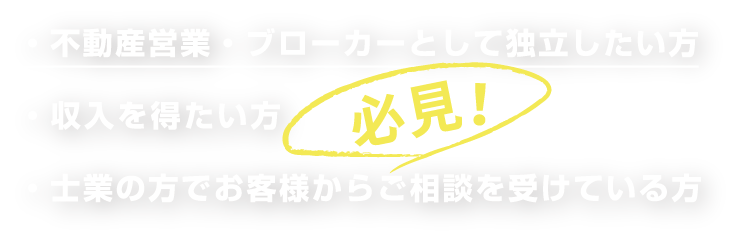
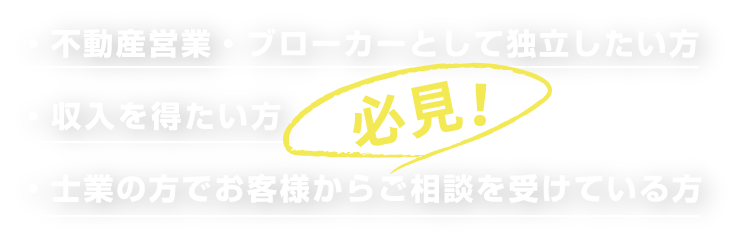
needs__Qの修正

diff --git a/style/style.css b/style/style.css
@@ -350,7 +350,7 @@ textarea {
 
 .needs__Q--description {
   background: #fff;
-  padding: 10px 25px;
+  padding: 25px;
   position: relative;
   margin-bottom: 20px;
   filter: drop-shadow(0px 3px 5px #c0c0c0);
@@ -366,18 +366,18 @@ textarea {
   border-top: 30px solid #fff;
 }
 
-.needs__Q--description p {
-  font-size: 16px;
-  text-indent: -1rem;
+.needs__Q--description .needs__Q--description__p {
+  display: flex;
 }
 
-.needs__Q--description p::before {
+.needs__Q--description .needs__Q--description__p p {
+  margin: -5px 0 5px 5px;
+}
+
+.needs__Q--description .needs__Q--description__p img {
   display: inline-block;
-  content: "";
-  background: url("../../image/check-black.png");
-  background-size: cover;
-  width: 20px;
-  height: 20px;
+  width: 25px;
+  height: 100%;
 }
 
 .needs__A {
@@ -860,16 +860,17 @@ textarea {
   .needs__Q--heading h2 span.dot {
     font-size: 36px;
   }
-  .needs__Q--description {
-    padding: 10px 25px;
+  .needs__Q--description .needs__Q--description__p {
+    display: flex;
   }
-  .needs__Q--description p {
-    font-size: 18px;
-    text-indent: -1rem;
+  .needs__Q--description .needs__Q--description__p p {
+    margin: -8px 0 15px 5px;
+    font-size: 24px;
   }
-  .needs__Q--description p::before {
-    width: 25px;
-    height: 25px;
+  .needs__Q--description .needs__Q--description__p img {
+    display: inline-block;
+    width: 30px;
+    height: 100%;
   }
   .needs__A--description tr td span {
     font-size: 30px;
@@ -1147,15 +1148,19 @@ textarea {
     font-size: 48px;
   }
   .needs__Q--description {
-    padding: 10px 35px;
+    padding: 35px;
   }
-  .needs__Q--description p {
-    font-size: 20px;
-    text-indent: -1.5rem;
+  .needs__Q--description .needs__Q--description__p {
+    display: flex;
   }
-  .needs__Q--description p::before {
-    width: 30px;
-    height: 30px;
+  .needs__Q--description .needs__Q--description__p p {
+    margin: -10px 0 25px 10px;
+    font-size: 32px;
+  }
+  .needs__Q--description .needs__Q--description__p img {
+    display: inline-block;
+    width: 35px;
+    height: 100%;
   }
   .needs__A--description tr td span {
     font-size: 40px;

diff --git a/index.html b/index.html
@@ -57,10 +57,22 @@
                 <img src="/image/question-man.png" alt="こんなお悩みありませんか？">
             </div>
             <div class="needs__Q--description">
-                <p>不動産営業として独立したい・独立したばかりで、物件購入のための十分な融資が受けられない</p>
-                <p>物件を購入するための資金がない</p>
-                <p>不動産の情報を提供して収入を得たい</p>
-                <p>司法書士・弁護士・会計士の方でお客様から不動産売却相談を受けている</p>
+                <div class="needs__Q--description__p">
+                    <img src="/image/check-black.png" alt="">
+                    <p>不動産営業として独立したい・独立したばかりで、物件購入のための十分な融資が受けられない</p>
+                </div>
+                <div class="needs__Q--description__p">
+                    <img src="/image/check-black.png" alt="">
+                    <p>物件を購入するための資金がない</p>
+                </div>
+                <div class="needs__Q--description__p">
+                    <img src="/image/check-black.png" alt="">
+                    <p>不動産の情報を提供して収入を得たい</p>
+                </div>
+                <div class="needs__Q--description__p">
+                    <img src="/image/check-black.png" alt="">
+                    <p>司法書士・弁護士・会計士の方でお客様から不動産売却相談を受けている</p>
+                </div>
             </div>
         </div>
         <div class="needs__A">

diff --git a/style/breakpoints/_base.scss b/style/breakpoints/_base.scss
@@ -333,7 +333,7 @@ textarea {
 }
 .needs__Q--description {
   background: $cWhite;
-  padding: 10px 25px;
+  padding: 25px;
   position: relative;
   margin-bottom: 20px;
   filter: drop-shadow(0px 3px 5px #c0c0c0);
@@ -346,16 +346,15 @@ textarea {
     border: 40px solid transparent;
     border-top: 30px solid $cWhite;
   }
-  p {
-    font-size: 16px;
-    text-indent: -1rem;
-    &::before {
+  .needs__Q--description__p {
+    display: flex;
+    p{
+      margin: -5px 0 5px 5px;
+    }
+    img{
       display: inline-block;
-      content: "";
-      background: url("../../image/check-black.png");
-      background-size: cover;
-      width: 20px;
-      height: 20px;
+      width: 25px;
+      height: 100%;
     }
   }
 }

diff --git a/style/breakpoints/_600up.scss b/style/breakpoints/_600up.scss
@@ -156,13 +156,17 @@ body {
 }
 
 .needs__Q--description {
-  padding: 10px 35px;
-  p {
-    font-size: 20px;
-    text-indent: -1.5rem;
-    &::before {
-      width: 30px;
-      height: 30px;
+  padding: 35px;
+  .needs__Q--description__p {
+    display: flex;
+    p{
+      margin: -10px 0 25px 10px;
+      font-size: 32px;
+    }
+    img{
+      display: inline-block;
+      width: 35px;
+      height: 100%;
     }
   }
 }

diff --git a/style/breakpoints/_480up.scss b/style/breakpoints/_480up.scss
@@ -73,13 +73,16 @@ body {
   }
 }
 .needs__Q--description {
-  padding: 10px 25px;
-  p {
-    font-size: 18px;
-    text-indent: -1rem;
-    &::before {
-      width: 25px;
-      height: 25px;
+  .needs__Q--description__p {
+    display: flex;
+    p{
+      margin: -8px 0 15px 5px;
+      font-size: 24px;
+    }
+    img{
+      display: inline-block;
+      width: 30px;
+      height: 100%;
     }
   }
 }
